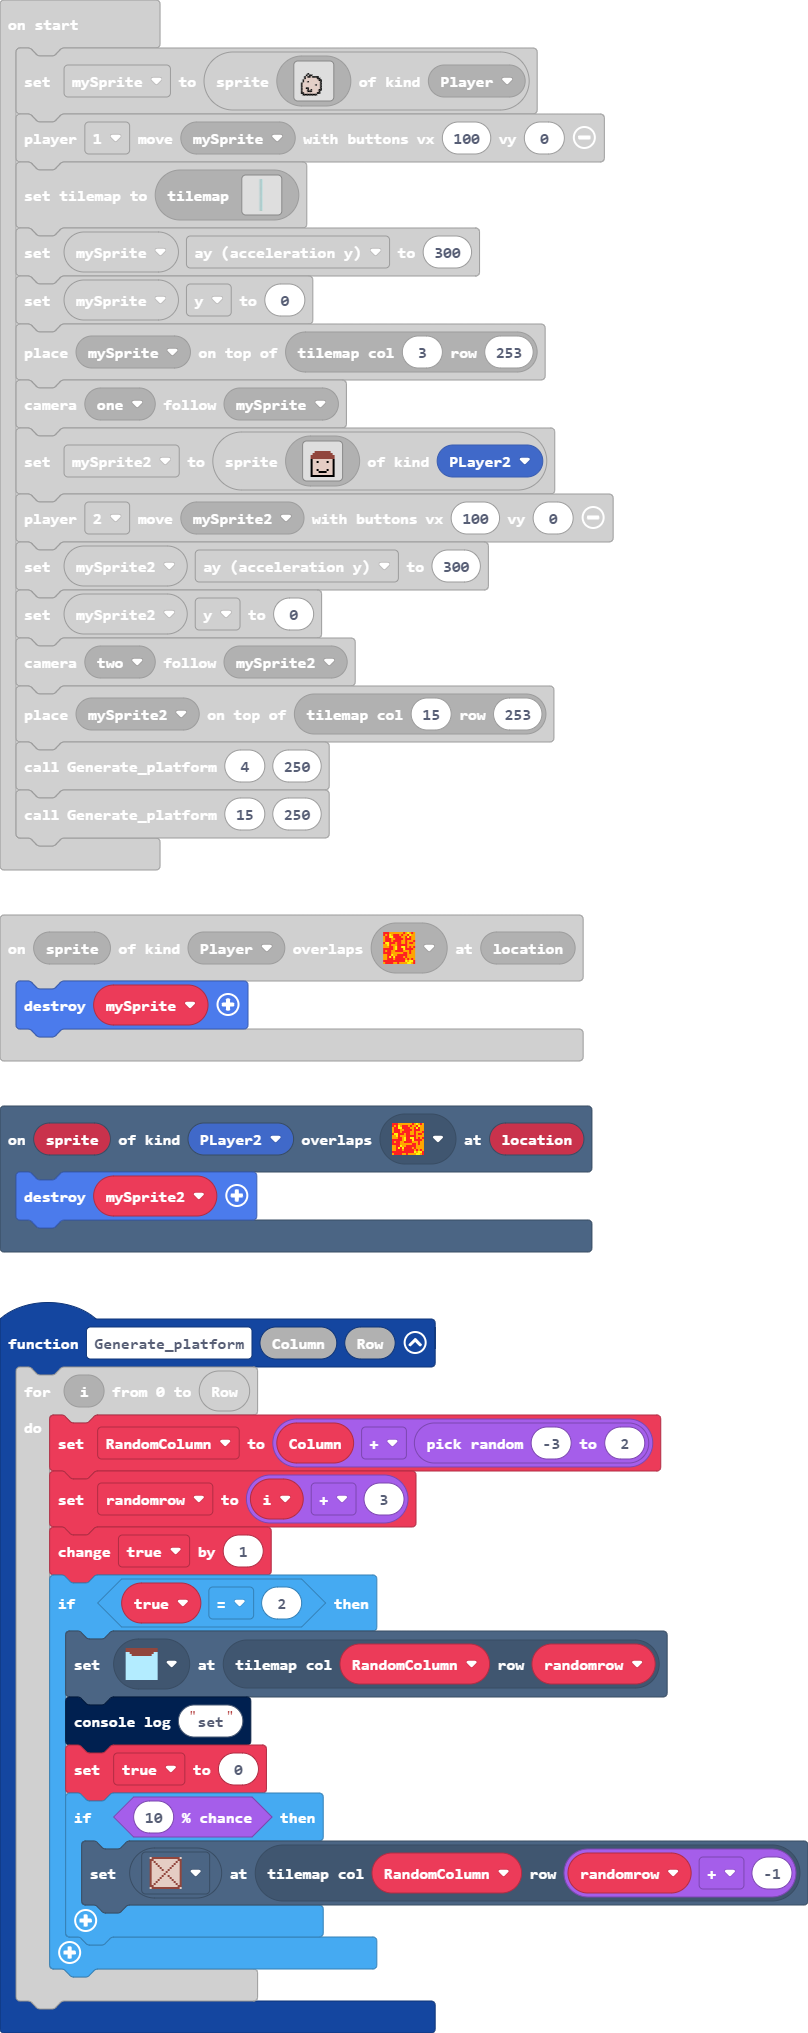
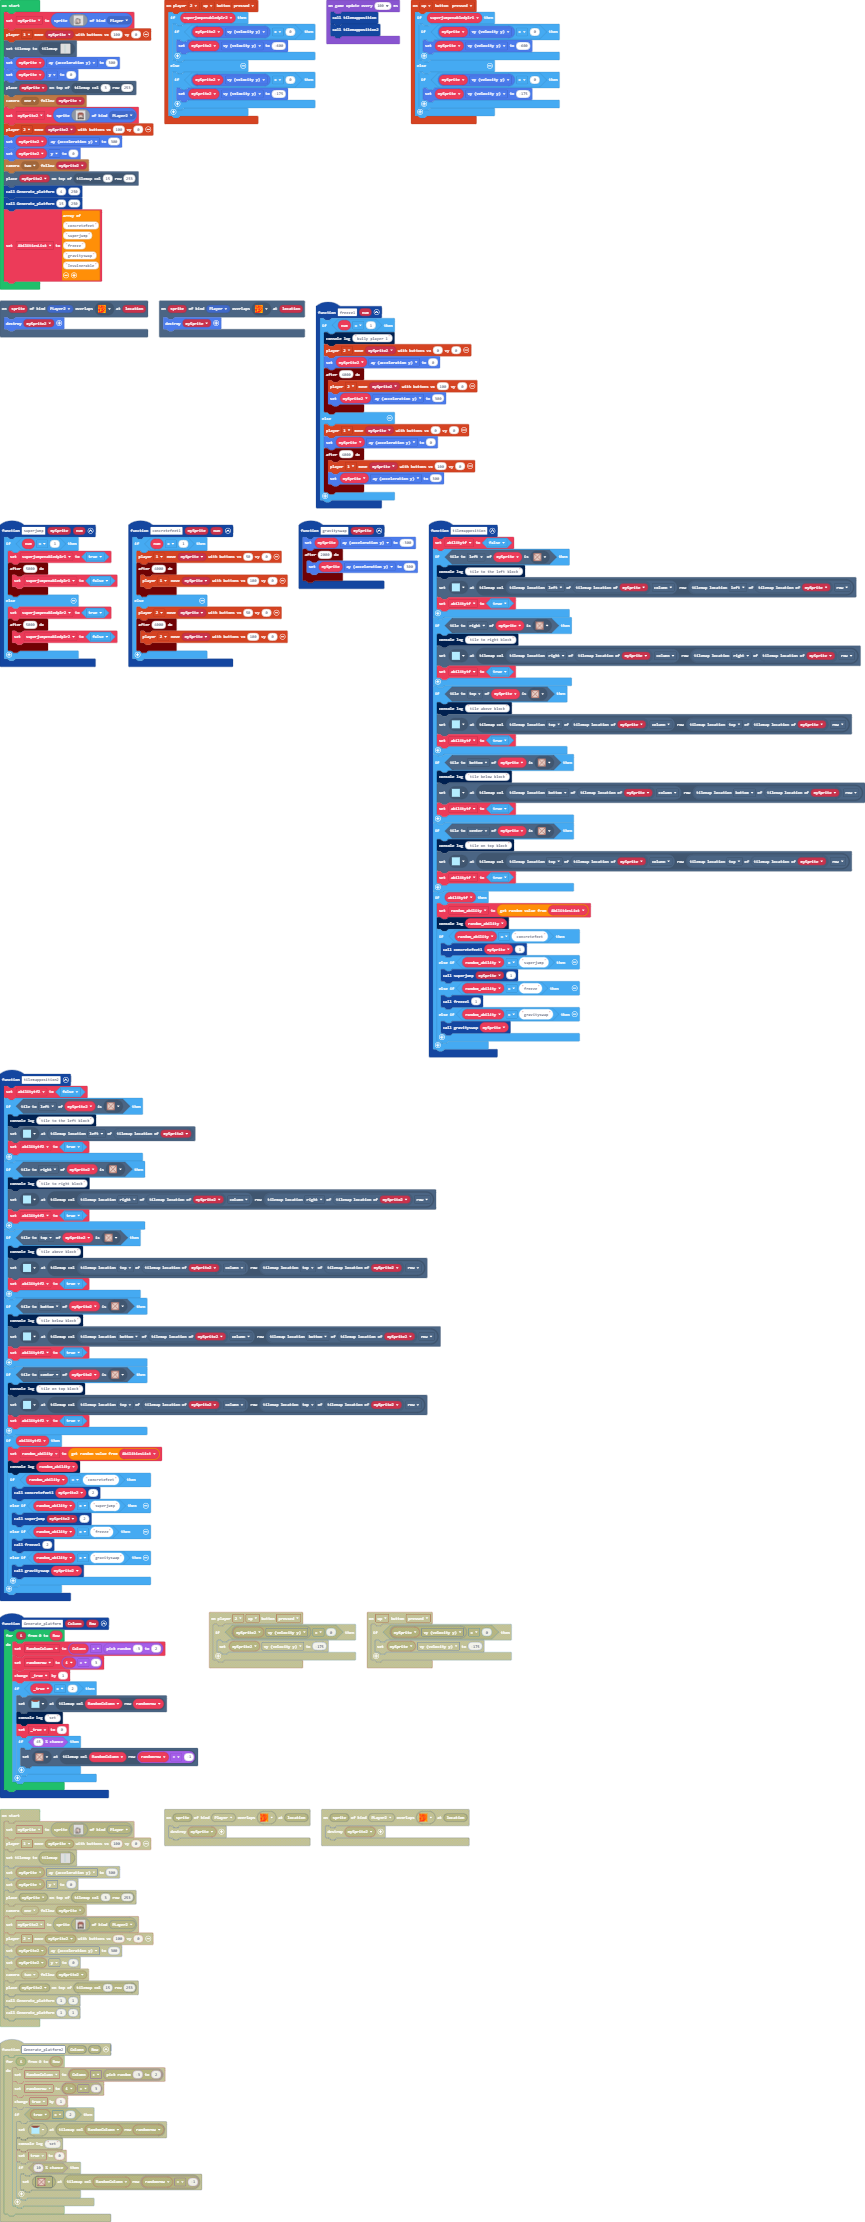
Update pxt.json, main.blocks, main.ts, tilemap.g.jres, tilemap.g.ts

diff --git a/main.ts b/main.ts
@@ -3,10 +3,94 @@ namespace SpriteKind {
     export const PLayer2 = SpriteKind.create()
 }
 controller.up.onEvent(ControllerButtonEvent.Pressed, function () {
-    if (mySprite.vy == 0) {
-        mySprite.vy = -175
+    if (superjumpenabledplr1) {
+        if (mySprite.vy == 0) {
+            mySprite.vy = -600
+        }
+    } else {
+        if (mySprite.vy == 0) {
+            mySprite.vy = -175
+        }
     }
 })
+function gravityswap (mySprite: Sprite) {
+    mySprite.ay = -300
+    timer.after(2000, function () {
+        mySprite.ay = 300
+    })
+}
+function tilemapposition () {
+    abilitytf = false
+    if (mySprite.tileKindAt(TileDirection.Left, assets.tile`myTile1`)) {
+        console.log("tile to the left block")
+        tiles.setTileAt(tiles.getTileLocation(mySprite.tilemapLocation().getNeighboringLocation(CollisionDirection.Left).column, mySprite.tilemapLocation().getNeighboringLocation(CollisionDirection.Left).row), assets.tile`Sky`)
+        abilitytf = true
+    }
+    if (mySprite.tileKindAt(TileDirection.Right, assets.tile`myTile1`)) {
+        console.log("tile to right block")
+        tiles.setTileAt(tiles.getTileLocation(mySprite.tilemapLocation().getNeighboringLocation(CollisionDirection.Right).column, mySprite.tilemapLocation().getNeighboringLocation(CollisionDirection.Right).row), assets.tile`Sky`)
+        abilitytf = true
+    }
+    if (mySprite.tileKindAt(TileDirection.Top, assets.tile`myTile1`)) {
+        console.log("tile above block")
+        tiles.setTileAt(tiles.getTileLocation(mySprite.tilemapLocation().getNeighboringLocation(CollisionDirection.Top).column, mySprite.tilemapLocation().getNeighboringLocation(CollisionDirection.Top).row), assets.tile`Sky`)
+        abilitytf = true
+    }
+    if (mySprite.tileKindAt(TileDirection.Bottom, assets.tile`myTile1`)) {
+        console.log("tile below block")
+        tiles.setTileAt(tiles.getTileLocation(mySprite.tilemapLocation().getNeighboringLocation(CollisionDirection.Bottom).column, mySprite.tilemapLocation().getNeighboringLocation(CollisionDirection.Bottom).row), assets.tile`Sky`)
+        abilitytf = true
+    }
+    if (mySprite.tileKindAt(TileDirection.Center, assets.tile`myTile1`)) {
+        console.log("tile on top block")
+        tiles.setTileAt(tiles.getTileLocation(mySprite.tilemapLocation().getNeighboringLocation(CollisionDirection.Top).column, mySprite.tilemapLocation().getNeighboringLocation(CollisionDirection.Top).row), assets.tile`Sky`)
+        abilitytf = true
+    }
+    if (abilitytf) {
+        random_ability = AbilitiesList._pickRandom()
+        console.log(random_ability)
+        if (random_ability == "concretefeet") {
+            concretefeet1(mySprite, 1)
+        } else if (random_ability == "superjump") {
+            superjump(mySprite, 1)
+        } else if (random_ability == "freeze") {
+            freeze1(1)
+        } else if (random_ability == "gravityswap") {
+            gravityswap(mySprite)
+        }
+    }
+}
+function freeze1 (num: number) {
+    if (num == 1) {
+        console.log("bully player 1")
+        controller.player2.moveSprite(mySprite2, 0, 0)
+        mySprite2.ay = 0
+        timer.after(4000, function () {
+            controller.player2.moveSprite(mySprite2, 100, 0)
+            mySprite2.ay = 300
+        })
+    } else {
+        controller.player1.moveSprite(mySprite, 0, 0)
+        mySprite.ay = 0
+        timer.after(4000, function () {
+            controller.player1.moveSprite(mySprite, 100, 0)
+            mySprite.ay = 300
+        })
+    }
+}
+function concretefeet1 (mySprite: Sprite, num: number) {
+    if (num == 1) {
+        controller.player1.moveSprite(mySprite, 50, 0)
+        timer.after(4000, function () {
+            controller.player1.moveSprite(mySprite, 100, 0)
+        })
+    } else {
+        controller.player2.moveSprite(mySprite, 50, 0)
+        timer.after(4000, function () {
+            controller.player2.moveSprite(mySprite, 100, 0)
+        })
+    }
+}
 scene.onOverlapTile(SpriteKind.PLayer2, assets.tile`Lava`, function (sprite, location) {
     sprites.destroy(mySprite2)
 })
@@ -19,24 +103,90 @@ function Generate_platform (Column: number, Row: number) {
             tiles.setTileAt(tiles.getTileLocation(RandomColumn, randomrow), assets.tile`myTile0`)
             console.log("set")
             _true = 0
-            if (Math.percentChance(10)) {
+            if (Math.percentChance(45)) {
                 tiles.setTileAt(tiles.getTileLocation(RandomColumn, randomrow + -1), assets.tile`myTile1`)
             }
         }
     }
 }
 controller.player2.onButtonEvent(ControllerButton.Up, ControllerButtonEvent.Pressed, function () {
-    if (mySprite2.vy == 0) {
-        mySprite2.vy = -175
+    if (superjumpenabledplr2) {
+        if (mySprite2.vy == 0) {
+            mySprite2.vy = -600
+        }
+    } else {
+        if (mySprite2.vy == 0) {
+            mySprite2.vy = -175
+        }
     }
 })
 scene.onOverlapTile(SpriteKind.Player, assets.tile`Lava`, function (sprite, location) {
     sprites.destroy(mySprite)
 })
+function superjump (mySprite: Sprite, num: number) {
+    if (num == 1) {
+        superjumpenabledplr1 = true
+        timer.after(5000, function () {
+            superjumpenabledplr1 = false
+        })
+    } else {
+        superjumpenabledplr2 = true
+        timer.after(5000, function () {
+            superjumpenabledplr2 = false
+        })
+    }
+}
+function tilemapposition2 () {
+    abilitytf2 = false
+    if (mySprite2.tileKindAt(TileDirection.Left, assets.tile`myTile1`)) {
+        console.log("tile to the left block")
+        tiles.setTileAt(mySprite2.tilemapLocation().getNeighboringLocation(CollisionDirection.Left), assets.tile`Sky`)
+        abilitytf2 = true
+    }
+    if (mySprite2.tileKindAt(TileDirection.Right, assets.tile`myTile1`)) {
+        console.log("tile to right block")
+        tiles.setTileAt(tiles.getTileLocation(mySprite2.tilemapLocation().getNeighboringLocation(CollisionDirection.Right).column, mySprite2.tilemapLocation().getNeighboringLocation(CollisionDirection.Right).row), assets.tile`Sky`)
+        abilitytf2 = true
+    }
+    if (mySprite2.tileKindAt(TileDirection.Top, assets.tile`myTile1`)) {
+        console.log("tile above block")
+        tiles.setTileAt(tiles.getTileLocation(mySprite2.tilemapLocation().getNeighboringLocation(CollisionDirection.Top).column, mySprite2.tilemapLocation().getNeighboringLocation(CollisionDirection.Top).row), assets.tile`Sky`)
+        abilitytf2 = true
+    }
+    if (mySprite2.tileKindAt(TileDirection.Bottom, assets.tile`myTile1`)) {
+        console.log("tile below block")
+        tiles.setTileAt(tiles.getTileLocation(mySprite2.tilemapLocation().getNeighboringLocation(CollisionDirection.Bottom).column, mySprite2.tilemapLocation().getNeighboringLocation(CollisionDirection.Bottom).row), assets.tile`Sky`)
+        abilitytf2 = true
+    }
+    if (mySprite2.tileKindAt(TileDirection.Center, assets.tile`myTile1`)) {
+        console.log("tile on top block")
+        tiles.setTileAt(tiles.getTileLocation(mySprite2.tilemapLocation().getNeighboringLocation(CollisionDirection.Top).column, mySprite2.tilemapLocation().getNeighboringLocation(CollisionDirection.Top).row), assets.tile`Sky`)
+        abilitytf2 = true
+    }
+    if (abilitytf2) {
+        random_ability = AbilitiesList._pickRandom()
+        console.log(random_ability)
+        if (random_ability == "concretefeet") {
+            concretefeet1(mySprite2, 2)
+        } else if (random_ability == "superjump") {
+            superjump(mySprite2, 2)
+        } else if (random_ability == "freeze") {
+            freeze1(2)
+        } else if (random_ability == "gravityswap") {
+            gravityswap(mySprite2)
+        }
+    }
+}
 let Height = 0
+let abilitytf2 = false
+let superjumpenabledplr2 = false
 let _true = 0
 let randomrow = 0
 let RandomColumn = 0
+let random_ability = ""
+let abilitytf = false
+let superjumpenabledplr1 = false
+let AbilitiesList: string[] = []
 let mySprite2: Sprite = null
 let mySprite: Sprite = null
 mySprite = sprites.create(assets.image`Player one`, SpriteKind.Player)
@@ -71,6 +221,13 @@ splitScreen.cameraFollowSprite(splitScreen.Camera.Camera2, mySprite2)
 tiles.placeOnTile(mySprite2, tiles.getTileLocation(15, 253))
 Generate_platform(4, 250)
 Generate_platform(15, 250)
+AbilitiesList = [
+"concretefeet",
+"superjump",
+"freeze",
+"gravityswap",
+"Invulnerable"
+]
 game.onUpdateInterval(1000, function () {
     for (let index = 0; index <= 20; index++) {
         tiles.setTileAt(tiles.getTileLocation(1 + index, 256 - Height), assets.tile`Lava`)
@@ -82,4 +239,8 @@ game.onUpdateInterval(500, function () {
     tileUtil.setWalls(assets.tile`myTile`, true)
     tileUtil.setWalls(assets.tile`Grass`, true)
     tileUtil.setWalls(assets.tile`myTile2`, true)
+})
+game.onUpdateInterval(100, function () {
+    tilemapposition()
+    tilemapposition2()
 })

diff --git a/tilemap.g.ts b/tilemap.g.ts
@@ -409,7 +409,7 @@ namespace myTiles {
 2.......2222.......2
 2.......2222.......2
 22222222222222222222
-`, [myTiles.transparency16,myTiles.tile1,myTiles.tile2,myTiles.tile3,myTiles.tile4,myTiles.tile6], TileScale.Sixteen);
+`, [myTiles.transparency16,myTiles.tile1,myTiles.tile2,myTiles.tile3,myTiles.tile4], TileScale.Sixteen);
         }
         return null;
     })
